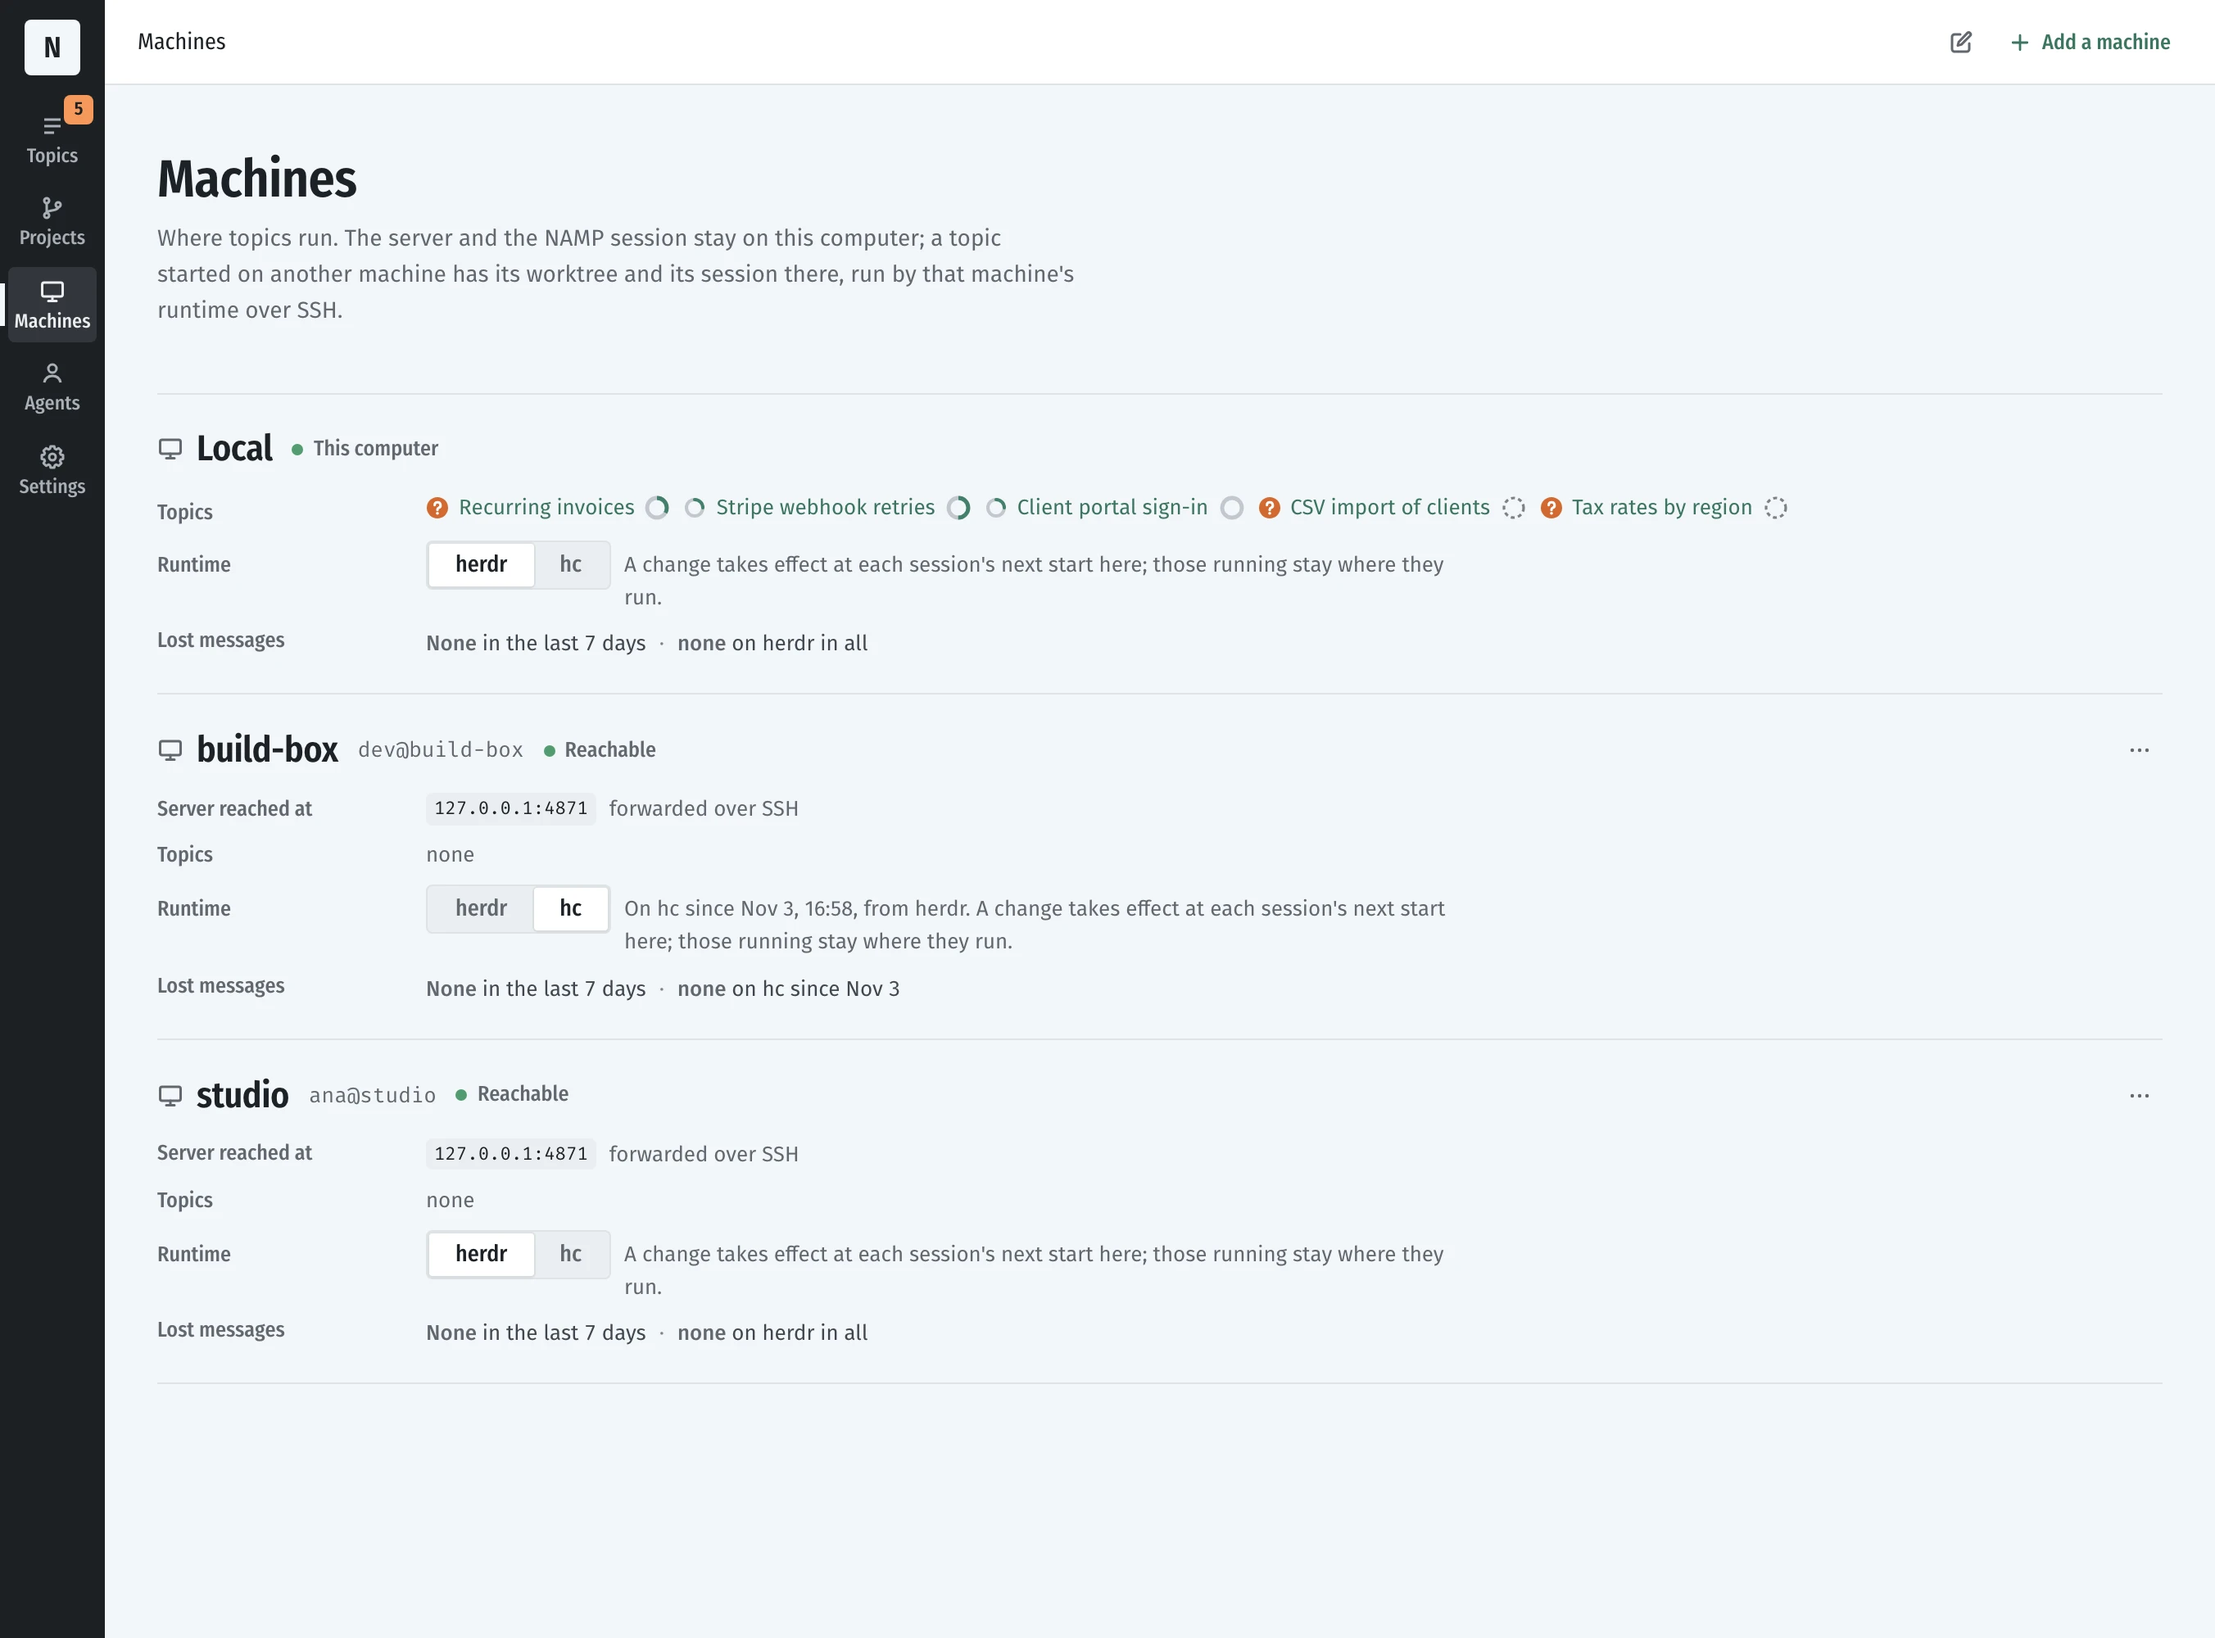
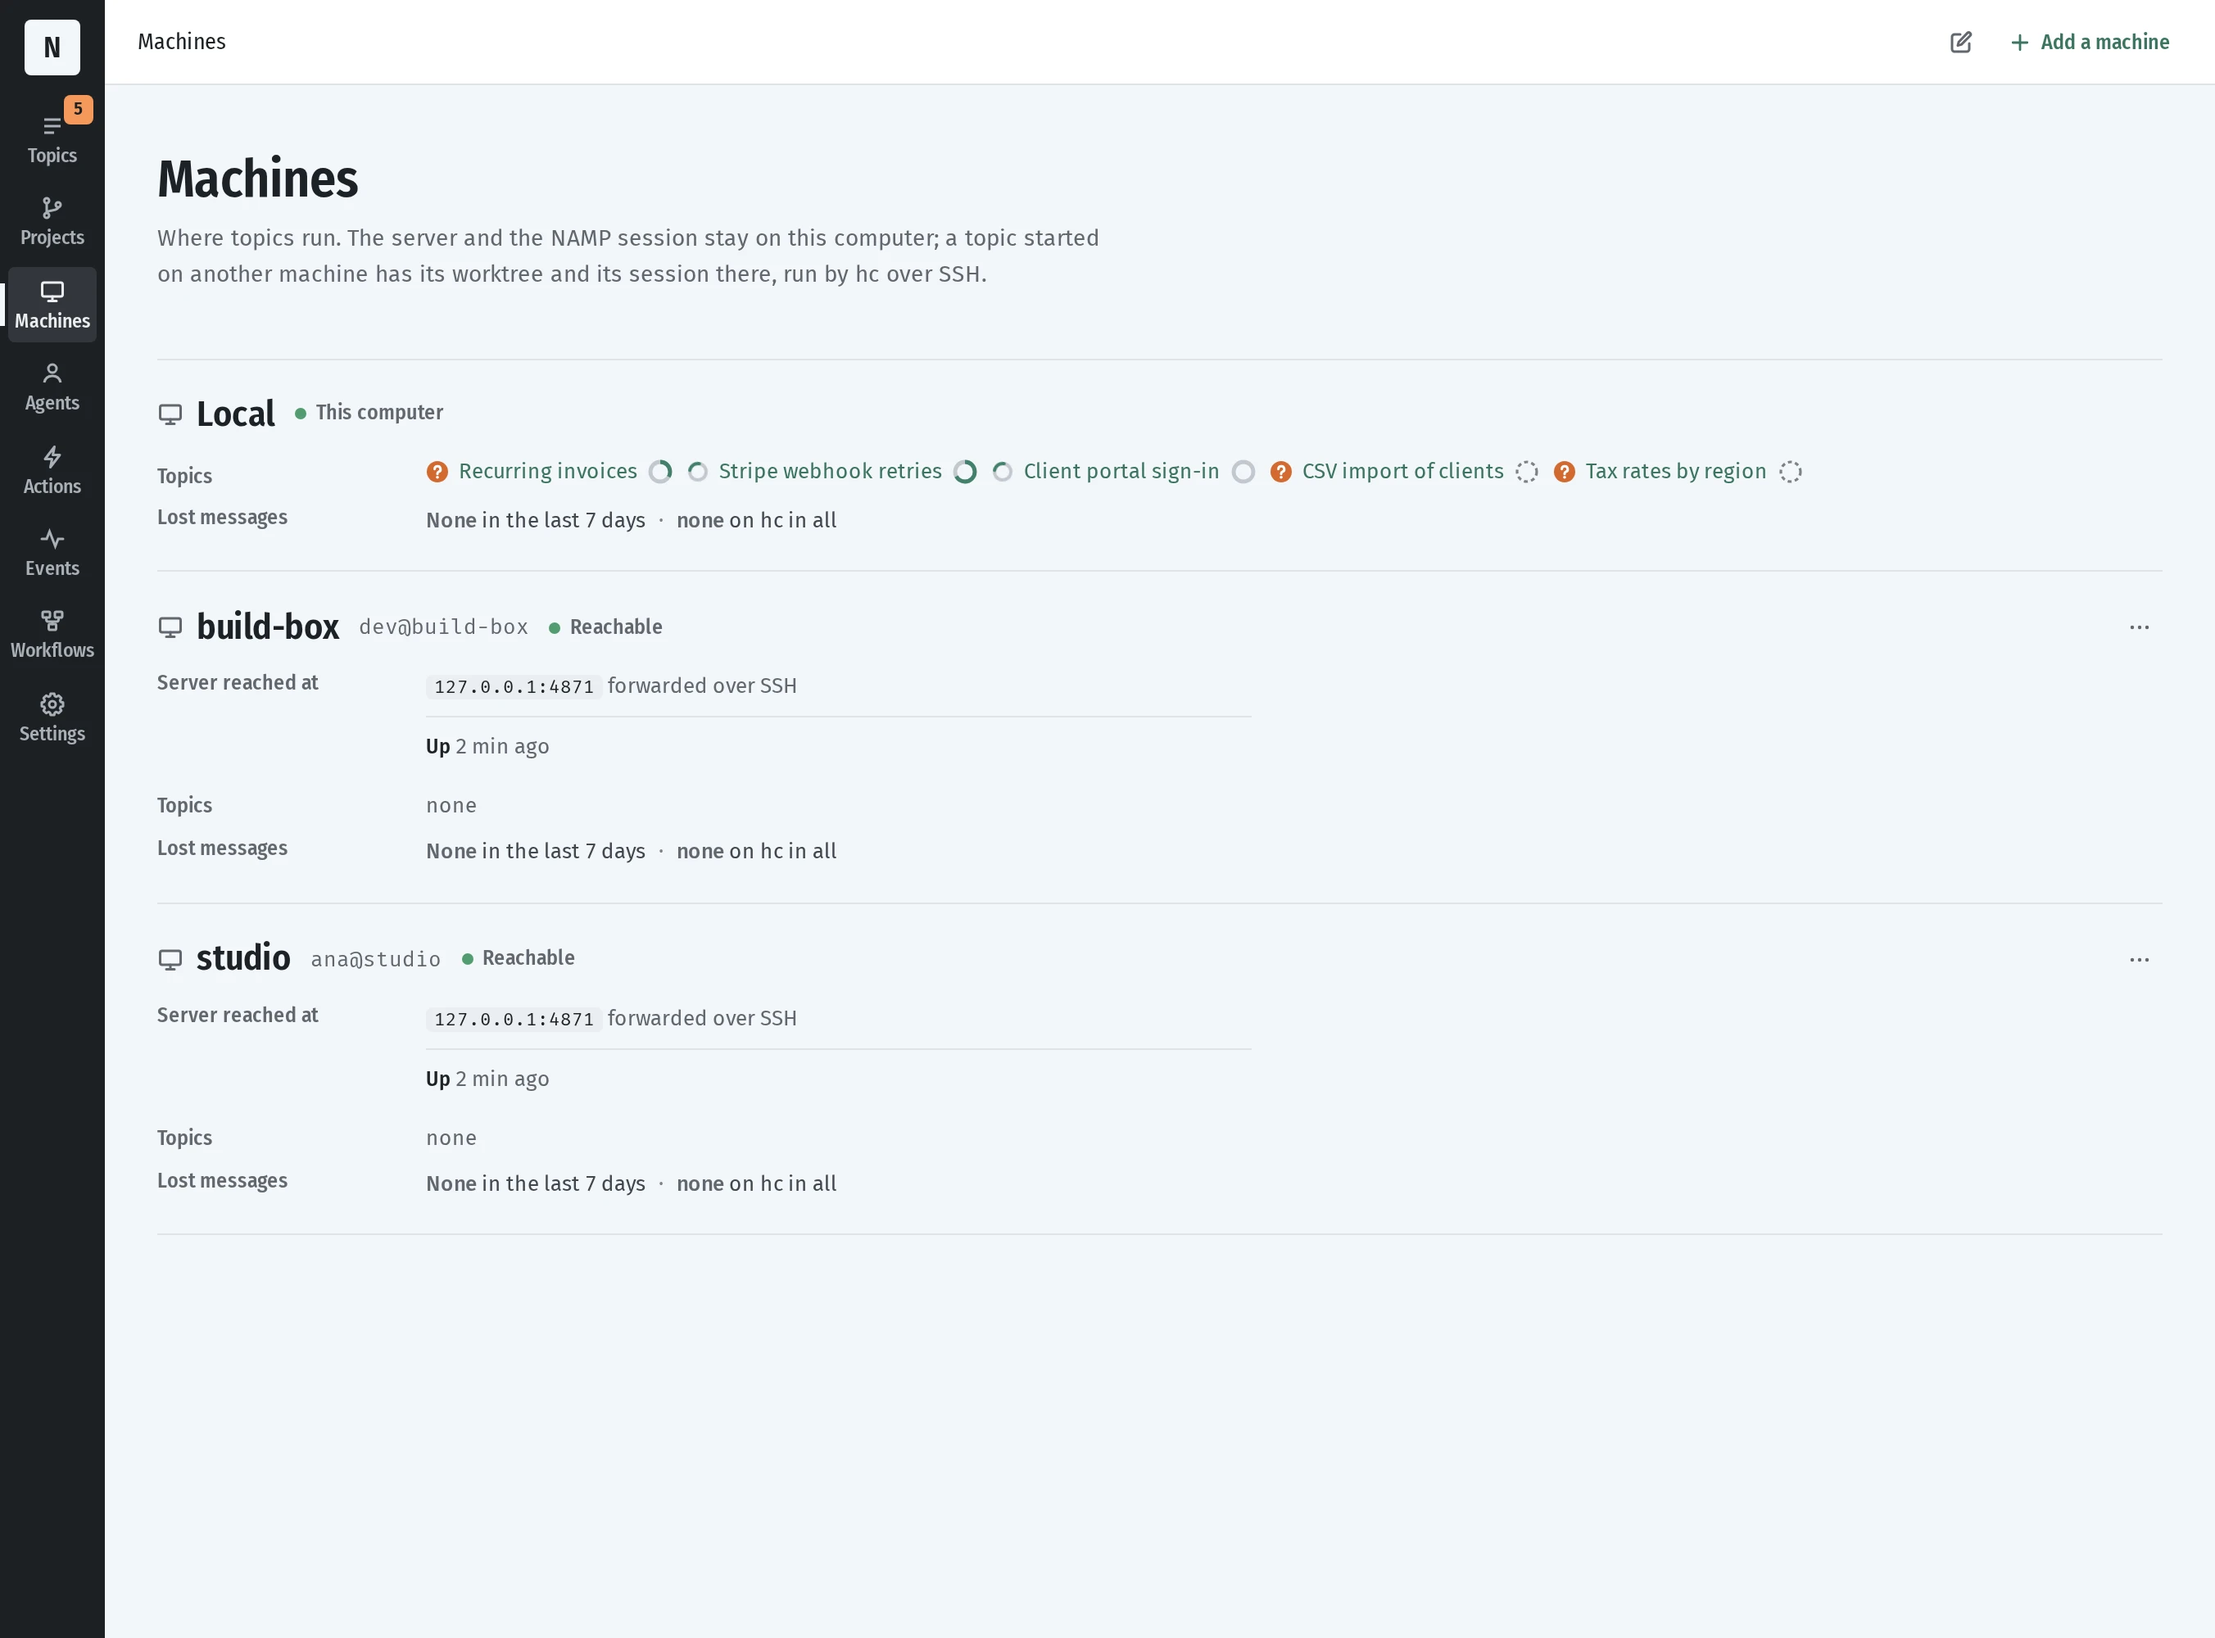
feat: the front page's Machines shot shows v0.24.0, every machine on hc
Machines is retaken from namp's main (v0.24.0 to be) on a seeded trial server, Dark and Light at
2704x2000: Local with the five demo topics, build-box and studio Reachable over fake ssh, no
runtime picker. places.js's Machines boxes, rows and cut are measured again on it, and its alt
says what it shows. The canvas page's numbers hide while Machines is shown, as their parts are
not on it.

diff --git a/src/lib/home/Tour.svelte b/src/lib/home/Tour.svelte
@@ -38,7 +38,7 @@
     {
       term: "Your machines, your work",
       text: "Each machine runs its sessions on hc, which NAMP brings itself. No NAMP service in between, nothing leaves unless you choose.",
-      place: "Machines, each machine with its runtime, on the page NAMP serves on your machine",
+      place: "Machines, each machine with its topics and status, on the page NAMP serves on your machine",
       ...tour.gains.machines,
     },
   ];
@@ -231,7 +231,7 @@
     {/key}
     {#each gains as gain, i (gain.term)}
       {@const [x, y, , h] = frame(gain.boxes[0], gain)}
-      <span class="badge nb" class:on={sel === i} style="left:{(x / W) * 100}%;top:{((gain.corner === "bottom" ? y + h : y) / H) * 100}%" aria-hidden="true">{i + 1}</span>
+      <span class="badge nb" class:on={sel === i} class:away={(gain.shot === "machines") !== machines} style="left:{(x / W) * 100}%;top:{((gain.corner === "bottom" ? y + h : y) / H) * 100}%" aria-hidden="true">{i + 1}</span>
     {/each}
     <span class="where" class:on={sel === gains.length - 1} aria-hidden="true">localhost:4321</span>
   </div>
@@ -503,6 +503,11 @@
     position: absolute;
     translate: -50% -50%;
     background: var(--bg);
+  }
+
+  /* A number whose part is on the shot not shown, the canvas page's under Machines, hides with it. */
+  .badge.away {
+    opacity: 0;
   }
 
   .badge.on {

diff --git a/src/routes/+page.svelte b/src/routes/+page.svelte
@@ -14,7 +14,7 @@
     "A topic's canvas page in NAMP: the side column at the left sorts the topic's threads into Needs you, its 2 questions and a reply, and Working, with its goal at 1 of 3 criteria met, Work with 1 of 6 items done, its pull request waiting on your review and its documents; the canvas bar counts its 2 asks and steps through them; Timeline shows today's work by the session and two sibling sessions, two questions open; Since you were here counts 1 done and 2 decided; the decisions D3 and D4 each carry an ask's mark in the gutter.";
 
   const machinesAlt =
-    "NAMP's Machines page: this computer with its five topics, then build-box and studio reached over SSH, each with its status and the runtime that runs its sessions, herdr or hc.";
+    "NAMP's Machines page: this computer with its five topics, then build-box and studio, each Reachable, the server forwarded to it over SSH, and each machine's lost messages, none.";
   const shots = {
     dark: { wide: { src: "/shots/tour-dark.webp", width: WIDE.w, height: WIDE.h }, machines: { src: "/shots/machines-dark.webp", width: MACHINES.w, height: MACHINES.h, alt: machinesAlt } },
     light: { wide: { src: "/shots/tour-light.webp", width: WIDE.w, height: WIDE.h }, machines: { src: "/shots/machines-light.webp", width: MACHINES.w, height: MACHINES.h, alt: machinesAlt } },

diff --git a/src/lib/home/places.js b/src/lib/home/places.js
@@ -75,16 +75,17 @@ export const tour = {
       cut: { shot: "phone-timeline", x: 0, y: 52, w: 402, h: 506 },
     },
     machines: {
-      // Machines: each machine's row with its runtime, herdr or hc, in the Machines shot's px.
+      // Machines: this computer's row with its topics, then each machine's with its status, where it reaches
+      // the server and its lost messages, in the Machines shot's px.
       shot: "machines",
-      boxes: [[83, 232, 1246, 618]],
+      boxes: [[83, 211, 1246, 550]],
       rows: [
-        [87, 236, 1238, 184],
-        [87, 424, 1238, 207],
-        [87, 635, 1238, 211],
+        [87, 215, 1238, 131],
+        [87, 350, 1238, 199],
+        [87, 553, 1238, 204],
       ],
       // On a phone: Machines from its title, through each machine's row.
-      cut: { shot: "machines", x: 64, y: 80, w: 1288, h: 780 },
+      cut: { shot: "machines", x: 64, y: 80, w: 1288, h: 690 },
     },
   },
 };

diff --git a/tests/components/tour.test.js b/tests/components/tour.test.js
@@ -91,7 +91,11 @@ describe("the gains", () => {
   test("your machines shows Machines over the canvas page, marks its machines and its address on your machine", async () => {
     render(Tour, { alt: "a topic's canvas page", shots });
     expect(document.querySelector(".frame").classList.contains("machines")).toBe(false);
+    const away = () => [...document.querySelectorAll(".badge")].map((b) => b.classList.contains("away"));
+    expect(away()).toEqual([false, false, false, true]);
     await fireEvent.click(tabs()[3]);
+    // The canvas page's numbers hide with it, their parts not on Machines.
+    expect(away()).toEqual([true, true, true, false]);
     expect(document.querySelector(".frame").classList.contains("machines")).toBe(true);
     expect([...document.querySelectorAll(".frame .alt img")].map((i) => [i.getAttribute("src"), i.getAttribute("alt")])).toEqual([
       ["/shots/machines-dark.webp", "namp's Machines page"],
